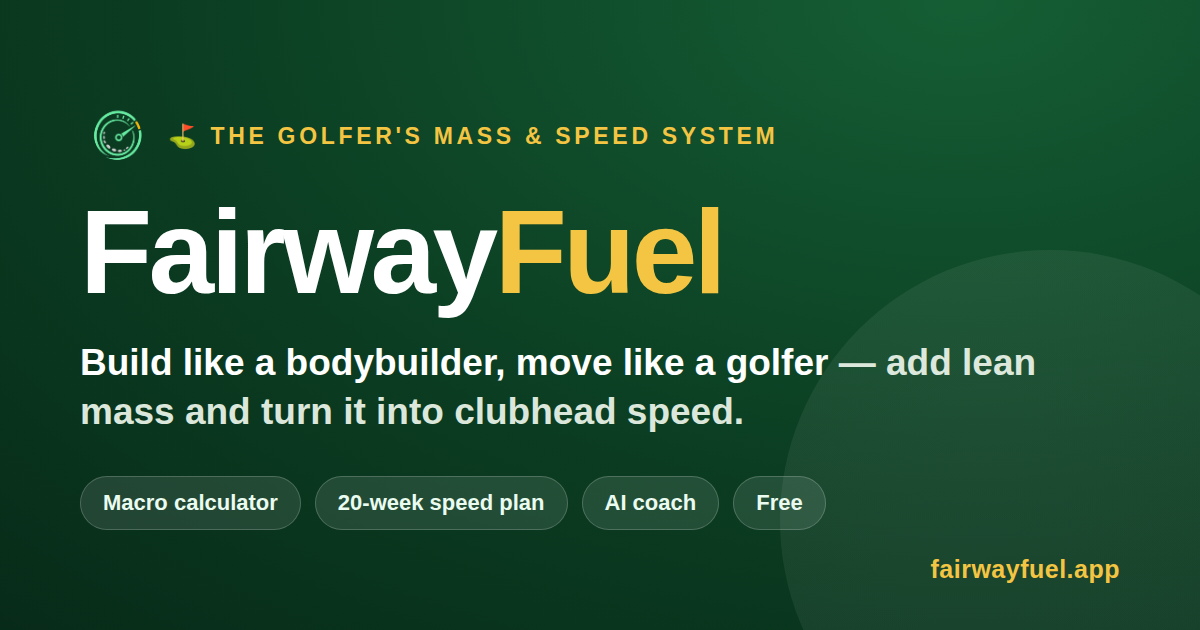
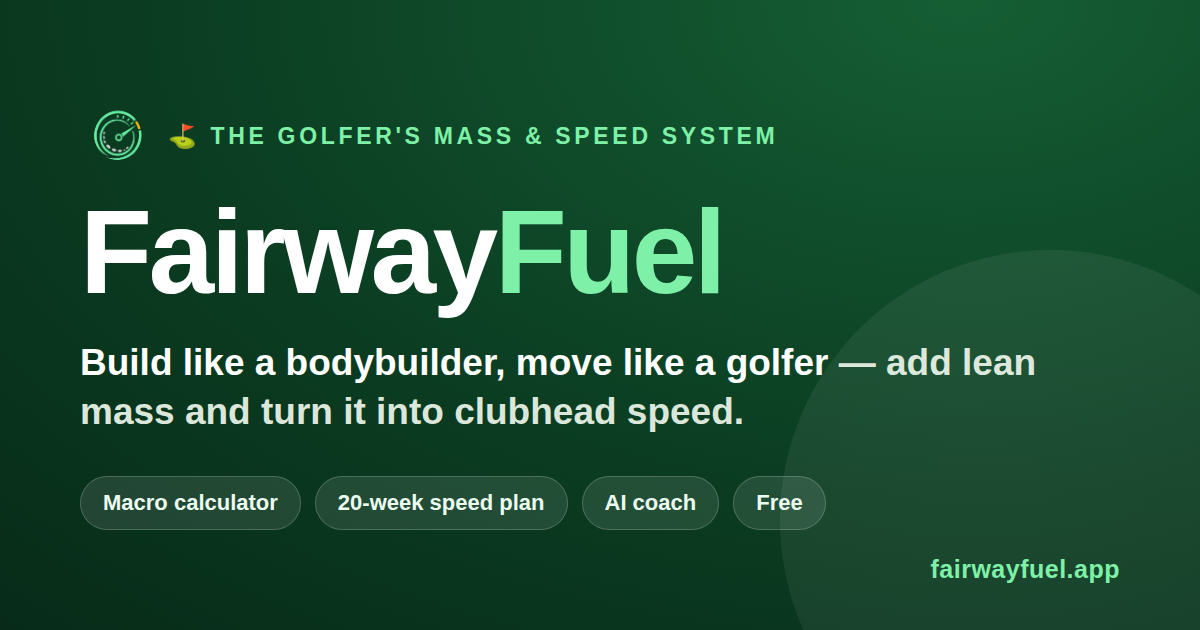
Unify premium color across every tab + clarify onboarding starts today
Color consistency (the look was split gold vs mint):
- Fuel's kcal hero was bright green while every other hero is dark — it
  now uses the same dark near-black radial.
- Standardized the brand/hero accent to mint everywhere it sits on dark:
  the app-bar wordmark 'Fuel' (was gold, clashing with the mint welcome
  wordmark), the Fuel goal pill, brand kicker, week bar, and the
  'Start the plan today' CTAs. One consistent accent now.
- Regenerated the OG share image to match (mint wordmark).

Onboarding clarity:
- The final step now states plainly that tapping Start makes TODAY Day 1
  ('your Week 1 plan starts right now and counts forward from today'),
  with the button relabeled 'Start — today is Day 1'. The start date was
  already set to today; now the copy says so.
- Bumped service worker to v74.

Claude-Session: https://claude.ai/code/session_01H8CkzCVe5VqJM9iDQ87F6d

Changed region(s): [[0.4008, 0.3317, 0.6167, 0.4825], [0.185, 0.181, 0.6475, 0.2413], [0.7708, 0.8746, 0.925, 0.9349]]

diff --git a/index.html b/index.html
@@ -73,7 +73,7 @@
     background: none; border: 0; padding: 0; margin: 0; font-family: inherit; cursor: pointer; }
   .wordmark:active { transform: translateY(1px); }
   .wordmark .wm-ic { width: 28px; height: 28px; display: block; flex: 0 0 auto; filter: drop-shadow(0 1px 2px rgba(0,0,0,.28)); }
-  .wordmark .em { color: var(--accent); }
+  .wordmark .em { color: #7ef0a8; }
   .wordmark .ball { width: 14px; height: 14px; border-radius: 50%;
     background: radial-gradient(circle at 35% 30%, #fff, #d7e2d7); box-shadow: inset -2px -2px 4px rgba(0,0,0,.18); }
 
@@ -101,9 +101,9 @@
   .brand-kicker {
     display: inline-flex; align-items: center; gap: 8px;
     font-weight: 800; letter-spacing: 2.4px; font-size: 12px;
-    text-transform: uppercase; color: var(--accent);
-    background: rgba(244,197,66,.10); padding: 8px 18px; border-radius: 999px;
-    border: 1px solid rgba(244,197,66,.28);
+    text-transform: uppercase; color: #7ef0a8;
+    background: rgba(126,240,168,.10); padding: 8px 18px; border-radius: 999px;
+    border: 1px solid rgba(126,240,168,.28);
   }
   .brand-kicker .ball {
     width: 15px; height: 15px; border-radius: 50%;
@@ -115,7 +115,7 @@
     font-size: clamp(44px, 12vw, 118px); letter-spacing: -0.045em;
     text-shadow: 0 6px 38px rgba(0,0,0,.30);
   }
-  .brand .em { color: var(--accent); text-shadow: 0 0 46px rgba(244,197,66,.5); }
+  .brand .em { color: #7ef0a8; text-shadow: 0 0 46px rgba(126,240,168,.45); }
   .tagline { margin: 0 auto; max-width: 600px; color: #c9e8d3; font-size: 17px; line-height: 1.55; }
   .tagline b { color: #fff; }
 
@@ -192,9 +192,9 @@
 
   .result-hero {
     text-align: center; position: relative; overflow: hidden;
-    background: linear-gradient(155deg, #176236 0%, var(--green-600) 65%, #19a84e 100%);
-    color: #fff; border-radius: 16px; padding: 26px 22px; margin-bottom: 18px;
-    box-shadow: 0 10px 26px rgba(20,83,45,.28);
+    background: radial-gradient(135% 135% at 8% 0%, #1a5031 0%, #0d2216 72%);
+    color: #fff; border:1px solid rgba(255,255,255,.06); border-radius: 18px; padding: 26px 22px; margin-bottom: 18px;
+    box-shadow: 0 12px 28px rgba(8,40,22,.24);
   }
   .result-hero::after {
     content:""; position:absolute; top:-40%; right:-10%; width:220px; height:220px;
@@ -203,8 +203,8 @@
   .result-hero .kcal { font-size: 56px; font-weight: 800; line-height: 1; letter-spacing: -2px; position:relative; }
   .result-hero .kcal small { font-size: 17px; font-weight: 600; opacity: .82; letter-spacing: 0; }
   .result-hero .goal-label {
-    display:inline-block; margin-top: 10px; font-size: 12px; color: var(--accent);
-    background: rgba(244,197,66,.16); border: 1px solid rgba(244,197,66,.32);
+    display:inline-block; margin-top: 10px; font-size: 12px; color: #7ef0a8;
+    background: rgba(126,240,168,.16); border: 1px solid rgba(126,240,168,.34);
     padding: 4px 13px; border-radius: 999px; font-weight: 700; letter-spacing:.3px; position:relative;
   }
   .tdee-line { font-size: 12px; opacity: .88; margin-top: 10px; position:relative; }
@@ -564,7 +564,7 @@
   .gameday-cta .gd-cta-tx { flex:1; min-width:0; display:flex; flex-direction:column; }
   .gameday-cta .gd-cta-tx b { color:#fff; font-size:15.5px; }
   .gameday-cta .gd-cta-tx span { color:#cdebd6; font-size:12px; margin-top:2px; }
-  .gameday-cta .gd-cta-go { color:#f4c542; font-size:24px; font-weight:700; flex:0 0 auto; }
+  .gameday-cta .gd-cta-go { color:#7ef0a8; font-size:24px; font-weight:700; flex:0 0 auto; }
   .gd-top { display:flex; align-items:center; gap:10px; margin-bottom:6px; }
   .gd-back { background:none; border:0; color:var(--green-700); font:700 14px system-ui; cursor:pointer; padding:6px 4px 6px 0; }
   /* Premium dark Game Day hero — matches the other tabs. */
@@ -756,6 +756,9 @@
     padding:14px; font:600 16px system-ui; color:#0f2417; }
   .ob-in:focus { outline:none; border-color:#7ef0a8; }
   .ob-select { width:100%; box-sizing:border-box; background:rgba(255,255,255,.95); border:0; border-radius:12px; padding:14px; font:600 15px system-ui; color:#0f2417; }
+  .ob-startcue { margin:6px 0 4px; background:rgba(126,240,168,.10); border:1px solid rgba(126,240,168,.28);
+    border-radius:12px; padding:12px 14px; font:600 13px/1.5 system-ui; color:#cdebd6; }
+  .ob-startcue b { color:#fff; }
   .ob-sum { display:flex; gap:10px; margin:2px 0 18px; }
   .ob-sumv { flex:1; background:rgba(255,255,255,.07); border:1px solid rgba(255,255,255,.14); border-radius:14px; padding:14px 10px; text-align:center; }
   .ob-sumv .v { font:800 23px system-ui; color:#fff; }
@@ -917,7 +920,7 @@
   .weekbar { display:flex; align-items:center; justify-content:space-between; gap:10px;
     background:linear-gradient(160deg,#0f2417,#14532d); color:#eafff1; border-radius:14px; padding:12px 16px; margin-bottom:14px; }
   .weekbar .wk-label { font-size:13px; font-weight:700; line-height:1.3; }
-  .weekbar .wk-label b { color:var(--accent); font-size:15px; }
+  .weekbar .wk-label b { color:#7ef0a8; font-size:15px; }
   .weekbar .wk-label span { display:block; font-size:11px; opacity:.8; font-weight:500; }
   .weekbar select { width:auto; background:rgba(255,255,255,.14); color:#fff; border:1px solid rgba(255,255,255,.25);
     padding:9px 30px 9px 12px; font-size:14px; font-weight:700; border-radius:10px; }
@@ -932,14 +935,14 @@
   .startbar .sb-top { display:flex; flex-direction:column; gap:4px; margin-bottom:12px; }
   .startbar .sb-top b { font-size:16px; color:#fff; }
   .startbar .sb-top span { font-size:12px; color:#bfe6cd; line-height:1.45; }
-  .startbar .sb-go { width:100%; background:var(--accent); color:#143a26; border:0; border-radius:11px; padding:13px; font:800 15px system-ui; cursor:pointer; }
+  .startbar .sb-go { width:100%; background:#7ef0a8; color:#0d2216; border:0; border-radius:11px; padding:13px; font:800 15px system-ui; cursor:pointer; }
   .startbar .sb-go:active { transform:translateY(1px); }
   .startbar .sb-alt { font-size:12px; color:#bfe6cd; margin-top:11px; text-align:center; }
   .sb-link { background:none; border:0; color:#9fe7bb; font:700 12px system-ui; cursor:pointer; text-decoration:underline; padding:0; }
   .wk-adjrow .sb-link { color:var(--green-700); }
   .startbar .sb-jump { display:flex; gap:8px; margin-top:11px; }
   .startbar .sb-jump select { flex:1; }
-  .sb-go2 { background:var(--accent); color:#143a26; border:0; border-radius:9px; padding:9px 15px; font:800 13px system-ui; cursor:pointer; }
+  .sb-go2 { background:#7ef0a8; color:#0d2216; border:0; border-radius:9px; padding:9px 15px; font:800 13px system-ui; cursor:pointer; }
   /* Today vs Full-week view */
   .planview-seg { display:flex; gap:6px; background:#eef3ee; padding:4px; border-radius:11px; margin-bottom:12px; }
   .planview-seg button { flex:1; border:0; background:transparent; padding:9px; border-radius:8px; font:700 13px system-ui; color:var(--muted); cursor:pointer; }
@@ -4784,8 +4787,9 @@
             '<div class="ob-sumv"><div class="v">'+(t?t.kcal:"—")+'</div><div class="k">kcal / day</div></div>'+
             '<div class="ob-sumv"><div class="v">'+(t?t.proteinG:"—")+'<small>g</small></div><div class="k">protein</div></div>'+
             '<div class="ob-sumv"><div class="v">'+(t?t.carbG:"—")+'<small>g</small></div><div class="k">carbs</div></div></div>'+
-          '<p class="ob-p">That’s your daily fuel for <b>'+((GOALS[ob.goal]&&GOALS[ob.goal].label)||"your goal")+'</b>. Your 20-week training plan and FairwayFuel Score are ready. Start Week 1 today, or look around first.</p>';
-        nextLabel="Start Week 1 →";
+          '<p class="ob-p">That’s your daily fuel for <b>'+((GOALS[ob.goal]&&GOALS[ob.goal].label)||"your goal")+'</b>. Your 20-week training plan and FairwayFuel Score are ready.</p>'+
+          '<div class="ob-startcue">📅 Tapping below makes <b>today Day 1</b> — your Week 1 plan starts <b>right now</b> and counts forward from today. (Just looking? Use the link below — nothing starts until you say go.)</div>';
+        nextLabel="Start — today is Day 1 →";
       }
 
       root.innerHTML=

diff --git a/sw.js b/sw.js
@@ -1,6 +1,6 @@
 /* FairwayFuel service worker — offline-first for the single-page app.
    Bump CACHE when you ship a new version so clients pull fresh files. */
-var CACHE = 'fairwayfuel-v73';
+var CACHE = 'fairwayfuel-v74';
 var ASSETS = [
   './',
   './index.html',